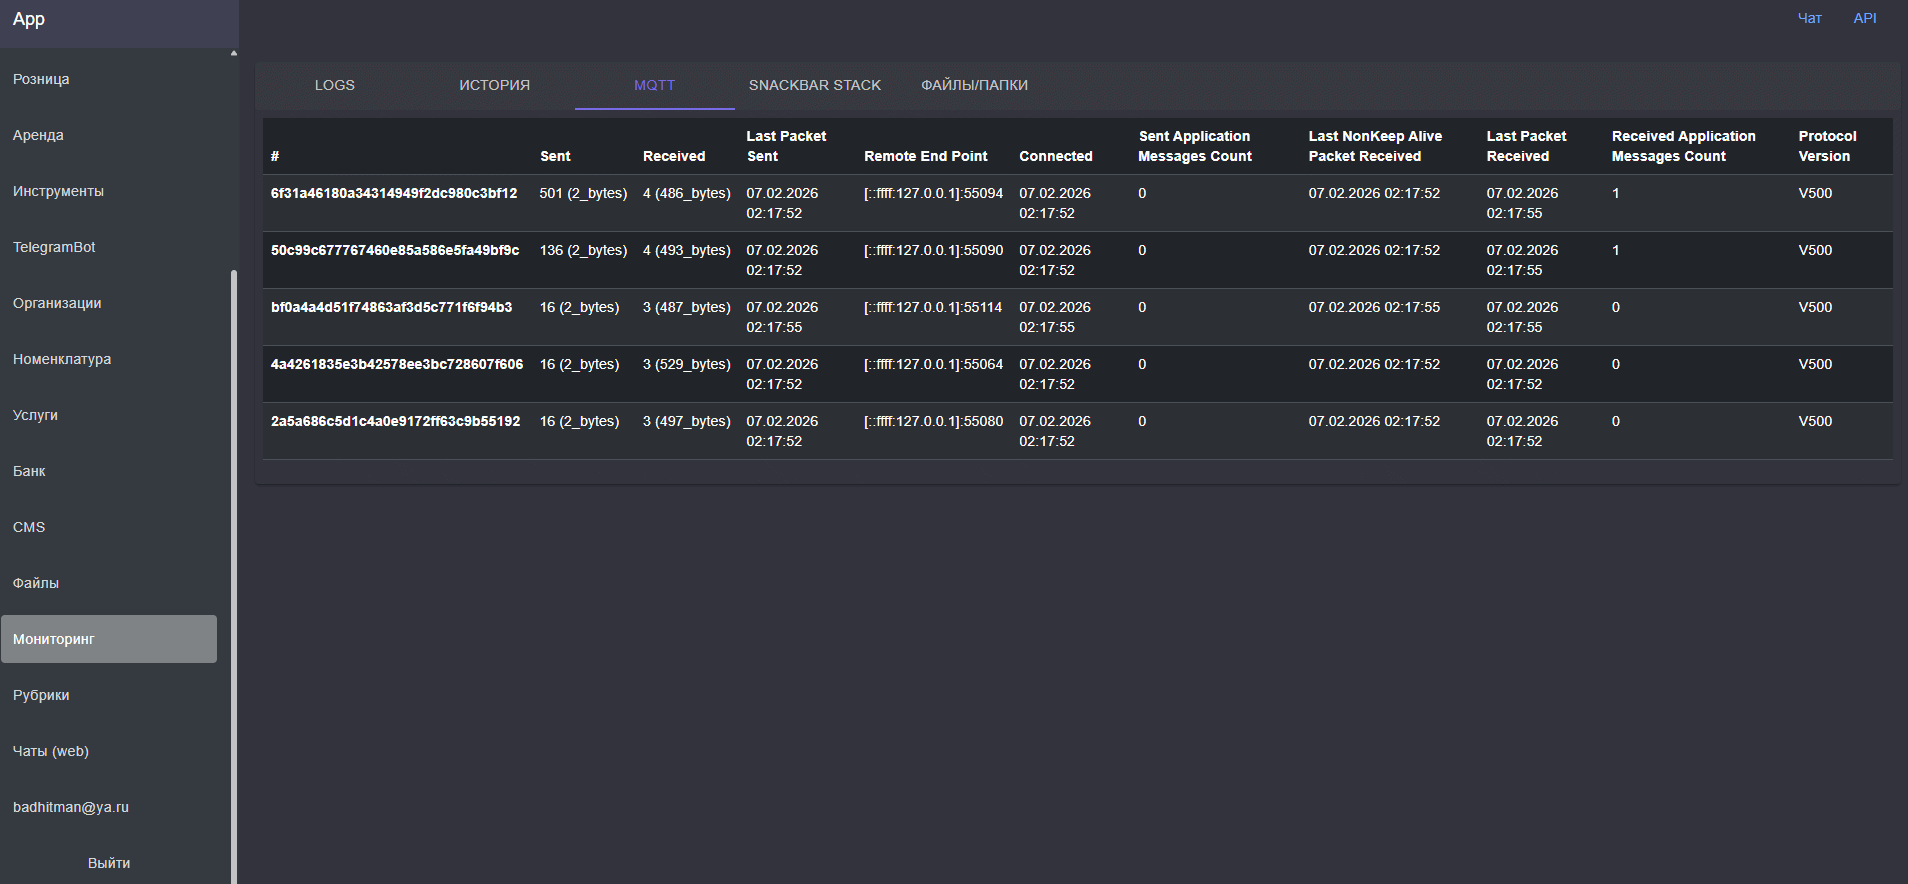
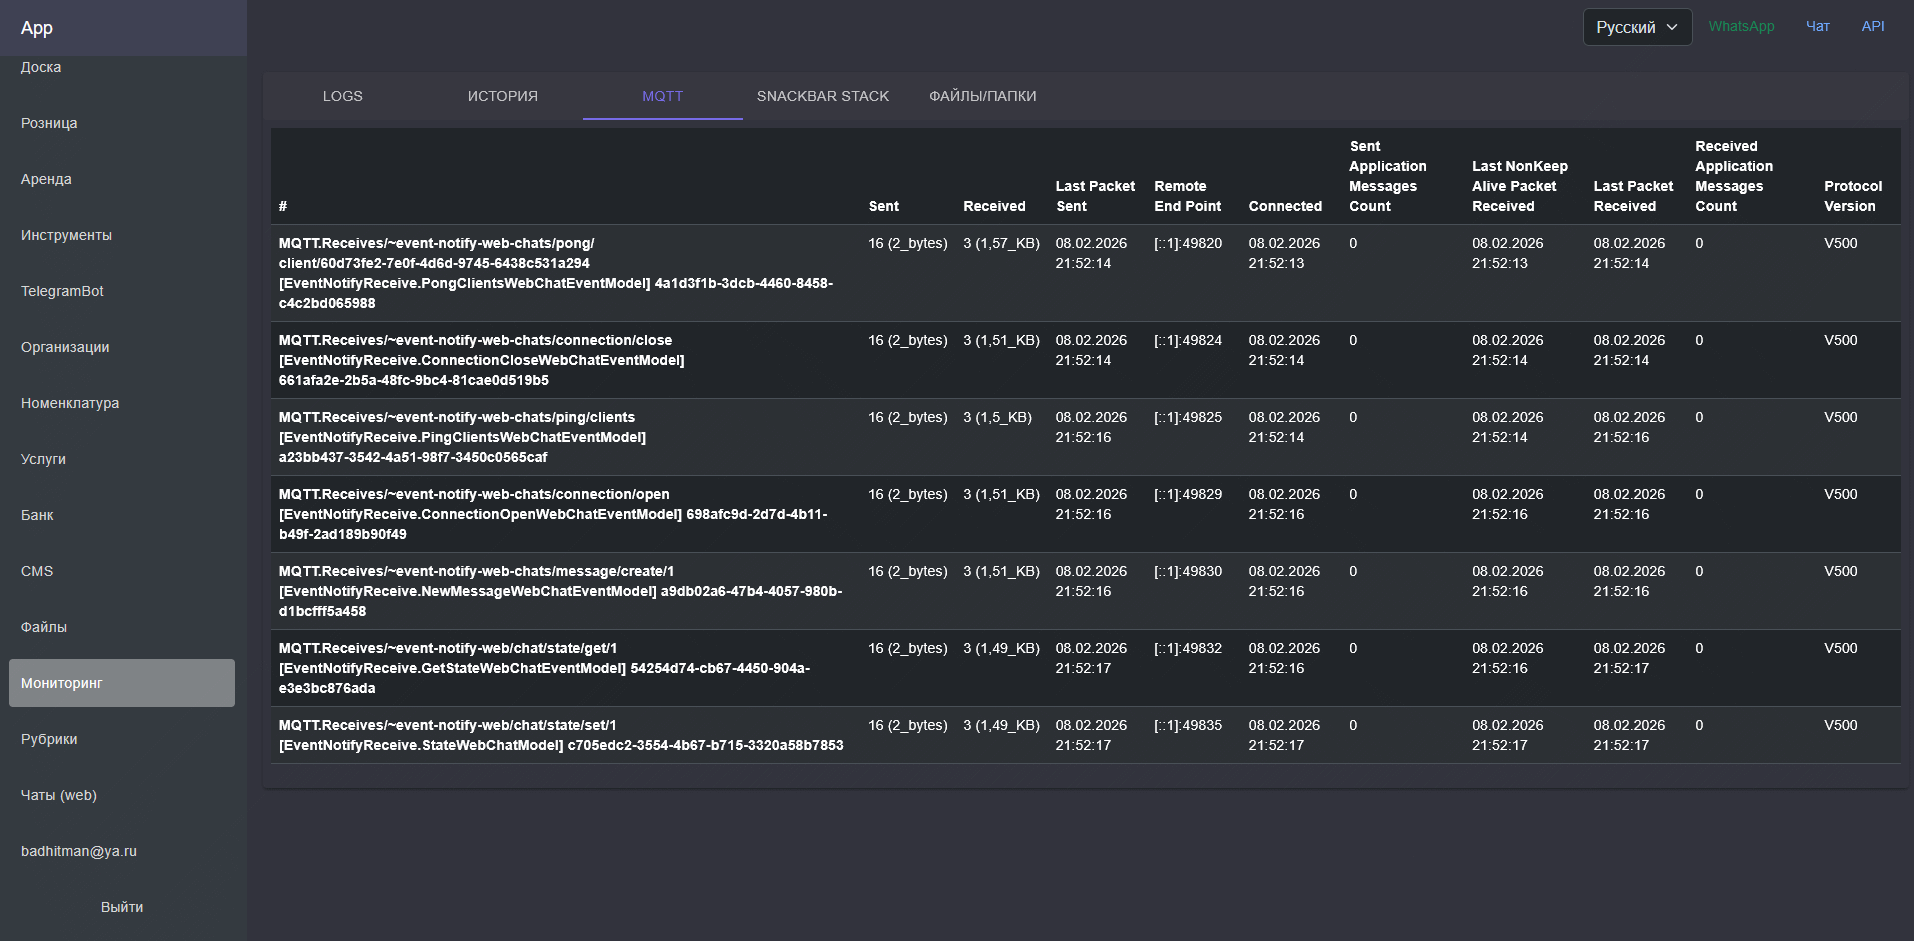
~

diff --git a/RemoteCallLib/MQTTCallLib/base/MQTTClient.cs b/RemoteCallLib/MQTTCallLib/base/MQTTClient.cs
@@ -2,18 +2,19 @@
 // © https://github.com/badhitman - @FakeGov 
 ////////////////////////////////////////////////
 
-using System.Text.Json.Serialization;
 using Microsoft.Extensions.Logging;
-using System.Diagnostics.Metrics;
-using System.Collections.Generic;
-using System.Threading.Tasks;
-using System.Diagnostics;
-using System.Text.Json;
-using System.Threading;
-using Newtonsoft.Json;
-using System.Text;
-using System;
 using MQTTnet;
+using Newtonsoft.Json;
+using System;
+using System.Collections;
+using System.Collections.Generic;
+using System.Diagnostics;
+using System.Diagnostics.Metrics;
+using System.Text;
+using System.Text.Json;
+using System.Text.Json.Serialization;
+using System.Threading;
+using System.Threading.Tasks;
 
 namespace SharedLib;
 
@@ -93,7 +94,7 @@ public class MQttClient(MQTTClientConfigModel mqConf, ILogger<MQttClient> _logge
         responseClient.ApplicationMessageReceivedAsync += ResponseClient_ApplicationMessageReceivedAsync;
         loggerRepo.LogTrace($"Sending message into queue [{queue}]", request_payload_json);
 
-        MqttClientConnectResult res = await mqttClient.ConnectAsync(GetMqttClientOptionsBuilder(propertyValue), tokenOuter);
+        MqttClientConnectResult res = await mqttClient.ConnectAsync(GetMqttClientOptionsBuilder(queue, propertyValue), tokenOuter);
 
         MqttApplicationMessage applicationMessage = new MqttApplicationMessageBuilder()
             .WithTopic(queue)
@@ -113,7 +114,7 @@ public class MQttClient(MQTTClientConfigModel mqConf, ILogger<MQttClient> _logge
             stopwatch.Start();
             try
             {
-                await responseClient.ConnectAsync(GetMqttClientOptionsBuilder(propertyValue), tokenOuter);
+                await responseClient.ConnectAsync(GetMqttClientOptionsBuilder(queue, propertyValue), tokenOuter);
                 await responseClient.SubscribeAsync(response_topic, cancellationToken: tokenOuter);
                 await mqttClient.PublishAsync(applicationMessage, tokenOuter);
             }
@@ -187,11 +188,12 @@ public class MQttClient(MQTTClientConfigModel mqConf, ILogger<MQttClient> _logge
         return res_io.Response;
     }
 
-    MqttClientOptions GetMqttClientOptionsBuilder(KeyValuePair<string, byte[]>? propertyValue)
+    MqttClientOptions GetMqttClientOptionsBuilder(string queue, KeyValuePair<string, byte[]>? propertyValue)
     {
         MqttClientOptionsBuilder res = new MqttClientOptionsBuilder()
                .WithTcpServer(MQConfigRepo.Host, MQConfigRepo.Port)
-               .WithProtocolVersion(MQTTnet.Formatter.MqttProtocolVersion.V500);
+               .WithProtocolVersion(MQTTnet.Formatter.MqttProtocolVersion.V500)
+               .WithClientId($"{queue} [{GetType().Name}] {Guid.NewGuid()}");
 
         if (propertyValue is not null)
             res.WithUserProperty(propertyValue.Value.Key, propertyValue.Value.Value);

diff --git a/RemoteCallLib/MQTTCallLib/base/EventNotifyReceive.cs b/RemoteCallLib/MQTTCallLib/base/EventNotifyReceive.cs
@@ -95,7 +95,7 @@ public class EventNotifyReceive<T> : IEventNotifyReceive<T>, IAsyncDisposable
 
         try
         {
-            await mqttClient.ConnectAsync(GetMqttClientOptionsBuilder(isMute), stoppingToken);
+            await mqttClient.ConnectAsync(GetMqttClientOptionsBuilder(QueueName, isMute), stoppingToken);
             await mqttClient.SubscribeAsync(QueueName, cancellationToken: stoppingToken);
             LoggerRepo.LogTrace($"QueueName:{QueueName}");
         }
@@ -131,11 +131,12 @@ public class EventNotifyReceive<T> : IEventNotifyReceive<T>, IAsyncDisposable
         Notify = null;
     }
 
-    MqttClientOptions GetMqttClientOptionsBuilder(bool isMute)
+    MqttClientOptions GetMqttClientOptionsBuilder(string queueName, bool isMute)
     {
         MqttClientOptionsBuilder builder = new MqttClientOptionsBuilder()
                .WithTcpServer(MQConfigRepo.Host, MQConfigRepo.Port)
                .WithProtocolVersion(MQTTnet.Formatter.MqttProtocolVersion.V500)
+               .WithClientId($"{queueName} [{nameof(EventNotifyReceive<>)}.{typeof(T).Name}] {Guid.NewGuid()}")
                .WithUserProperty(Routes.USER_CONTROLLER_NAME, _userInfoBytes ?? Encoding.UTF8.GetBytes(JsonConvert.SerializeObject(null)));
 
         if (isMute)

diff --git a/RemoteCallLib/MQTTCallLib/base/MQTTListenerService.cs b/RemoteCallLib/MQTTCallLib/base/MQTTListenerService.cs
@@ -131,7 +131,8 @@ public class MQTTListenerService<TQueue, TRequest, TResponse>
     {
         MqttClientOptionsBuilder res = new MqttClientOptionsBuilder()
                .WithTcpServer(MQConfigRepo.Host, MQConfigRepo.Port)
-               .WithProtocolVersion(MQTTnet.Formatter.MqttProtocolVersion.V500);
+               .WithProtocolVersion(MQTTnet.Formatter.MqttProtocolVersion.V500)
+               .WithClientId($"{QueueName} [{nameof(MQTTListenerService<,,>)}.{typeof(TRequest).Name}] {Guid.NewGuid()}");
 
         if (propertyValue is not null)
             res.WithUserProperty(propertyValue.Value.Key, propertyValue.Value.Value);

diff --git a/micro-services/RealtimeService/Services/WebChatService.cs b/micro-services/RealtimeService/Services/WebChatService.cs
@@ -18,6 +18,8 @@ public partial class WebChatService(IDbContextFactory<RealtimeContext> mainDbFac
     /// <inheritdoc/>
     public async Task<TResponseModel<List<MqttClientModel>>> GetClientsConnectionsAsync(GetClientsRequestModel req, CancellationToken cancellationToken = default)
     {
+        IList<MqttSessionStatus> v = await mqttServerRepo.GetSessionsAsync();
+        
         return new()
         {
             Response = [..(await mqttServerRepo.GetClientsAsync()).Select(x=> new MqttClientModel()

diff --git a/BlazorLib/Components/BlazorBusyComponentBaseModel.cs b/BlazorLib/Components/BlazorBusyComponentBaseModel.cs
@@ -66,6 +66,7 @@ public abstract class BlazorBusyComponentBaseModel : ComponentBase, IDisposable
         {
             await Task.Delay(1, token);
         }
+        catch (TaskCanceledException) { }
         finally
         {
             await InvokeAsync(StateHasChanged);

diff --git a/SharedLibStandard21/Models/MqttClientModel.cs b/SharedLibStandard21/Models/MqttClientModel.cs
@@ -3,6 +3,7 @@
 ////////////////////////////////////////////////
 
 using System;
+using System.Collections;
 using System.Net;
 
 namespace SharedLib;
